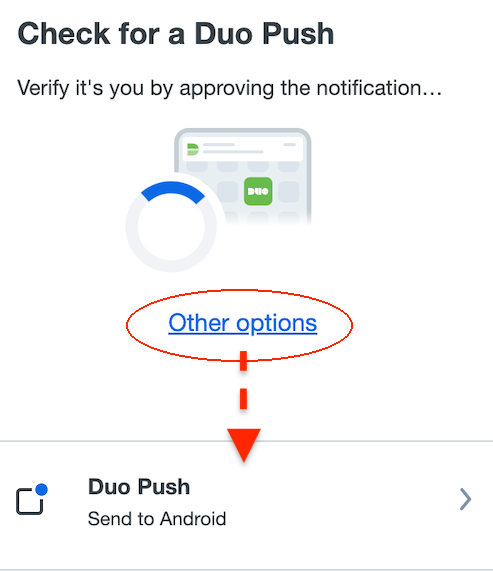
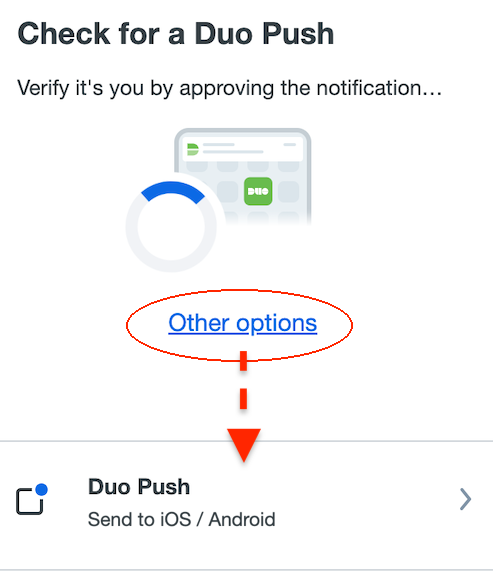
v1.4.3

Changed region(s): [[0.1826, 0.8932, 0.5781, 0.9229]]

diff --git a/chrome/popup.js b/chrome/popup.js
@@ -128,6 +128,37 @@ async function activateDevice(rawCode) {
   let publicRaw = arrayBufferToBase64(await crypto.subtle.exportKey("spki", keyPair.publicKey));
   let privateRaw = arrayBufferToBase64(await crypto.subtle.exportKey("pkcs8", keyPair.privateKey));
 
+  // Pick a randomized model and tablet
+  const appleDevices = ["iPad", "iPad Air", "iPad Pro", "iPad mini"];
+  const androidDevices = ["Galaxy Tab A8", "Galaxy Tab A7 Lite", "Galaxy Tab S10 Ultra", "Lenovo Tab P11"];
+  const activationInfo = {
+    customer_protocol: "1",
+    pubkey: pemFormat,
+    pkpush: "rsa-sha512",
+    jailbroken: "false",
+    architecture: "arm64",
+    region: "US",
+    app_id: "com.duosecurity.duomobile",
+    full_disk_encryption: true,
+    passcode_status: true,
+    app_version: "4.59.0",
+    app_build_number: "459010",
+    version: "13",
+    manufacturer: "unknown",
+    language: "en",
+    security_patch_level: "2022-11-05"
+  }
+  // New discovery: Platform = iOS is case-sensitive, Android is not
+  if(Math.random() < 0.5) {
+    // Apple
+    activationInfo.platform = "iOS";
+    activationInfo.model = appleDevices[Math.floor(Math.random() * appleDevices.length)];
+  } else {
+    // Android
+    activationInfo.platform = "Android";
+    activationInfo.model = androidDevices[Math.floor(Math.random() * androidDevices.length)];
+  }
+
   // Initialize new HTTP request
   let request = new XMLHttpRequest();
   let error = false;
@@ -150,6 +181,7 @@ async function activateDevice(rawCode) {
           "publicRaw": publicRaw,
           "privateRaw": privateRaw
         };
+        document.getElementById("newDeviceDisplay").innerHTML = `<b>${activationInfo.model}</b> (${activationInfo.platform})`;
         // Store device info in chrome sync
         await setDeviceInfo(deviceInfo);
         resolve("Success");
@@ -162,8 +194,8 @@ async function activateDevice(rawCode) {
     };
   });
   // await new Promise(resolve => setTimeout(resolve, 2000));
-  // Append URL parameters and begin request. Stick our branding on it too why not
-  request.send("?customer_protocol=1&pubkey=" + encodeURIComponent(pemFormat) + "&pkpush=rsa-sha512&jailbroken=false&architecture=arm64&region=US&app_id=com.duosecurity.duomobile&full_disk_encryption=true&passcode_status=true&platform=Android&app_version=4.59.0&app_build_number=459010&version=13&manufacturer=Auto%202FA&language=en&model=Extension&security_patch_level=2022-11-05");
+  // Append URL parameters and begin request
+  request.send(new URLSearchParams(activationInfo));
   // Create timeout promise
   let timeout = new Promise((resolve, reject) => {
     setTimeout(() => {

diff --git a/firefox/popup.js b/firefox/popup.js
@@ -128,6 +128,37 @@ async function activateDevice(rawCode) {
   let publicRaw = arrayBufferToBase64(await crypto.subtle.exportKey("spki", keyPair.publicKey));
   let privateRaw = arrayBufferToBase64(await crypto.subtle.exportKey("pkcs8", keyPair.privateKey));
 
+  // Pick a randomized
+  const appleDevices = ["iPad", "iPad Air", "iPad Pro", "iPad mini"];
+  const androidDevices = ["Galaxy Tab A8", "Galaxy Tab A7 Lite", "Galaxy Tab S10 Ultra", "Lenovo Tab P11"];
+  const activationInfo = {
+    customer_protocol: "1",
+    pubkey: pemFormat,
+    pkpush: "rsa-sha512",
+    jailbroken: "false",
+    architecture: "arm64",
+    region: "US",
+    app_id: "com.duosecurity.duomobile",
+    full_disk_encryption: true,
+    passcode_status: true,
+    app_version: "4.59.0",
+    app_build_number: "459010",
+    version: "13",
+    manufacturer: "unknown",
+    language: "en",
+    security_patch_level: "2022-11-05"
+  }
+  // New discovery: Platform = iOS is case-sensitive, Android is not
+  if(Math.random() < 0.5) {
+    // Apple
+    activationInfo.platform = "iOS";
+    activationInfo.model = appleDevices[Math.floor(Math.random() * appleDevices.length)];
+  } else {
+    // Android
+    activationInfo.platform = "Android";
+    activationInfo.model = androidDevices[Math.floor(Math.random() * androidDevices.length)];
+  }
+
   // Initialize new HTTP request
   let request = new XMLHttpRequest();
   let error = false;
@@ -150,6 +181,7 @@ async function activateDevice(rawCode) {
           "publicRaw": publicRaw,
           "privateRaw": privateRaw
         };
+        document.getElementById("newDeviceDisplay").innerHTML = `<b>${activationInfo.model}</b> (${activationInfo.platform})`;
         // Store device info in chrome sync
         await setDeviceInfo(deviceInfo);
         resolve("Success");
@@ -163,7 +195,7 @@ async function activateDevice(rawCode) {
   });
   // await new Promise(resolve => setTimeout(resolve, 2000));
   // Append URL parameters and begin request. Stick our branding on it too why not
-  request.send("?customer_protocol=1&pubkey=" + encodeURIComponent(pemFormat) + "&pkpush=rsa-sha512&jailbroken=false&architecture=arm64&region=US&app_id=com.duosecurity.duomobile&full_disk_encryption=true&passcode_status=true&platform=Android&app_version=4.59.0&app_build_number=459010&version=13&manufacturer=Auto%202FA&language=en&model=Extension&security_patch_level=2022-11-05");
+  request.send(new URLSearchParams(activationInfo));
   // Create timeout promise
   let timeout = new Promise((resolve, reject) => {
     setTimeout(() => {

diff --git a/firefox/popup.html b/firefox/popup.html
@@ -420,15 +420,15 @@
     <!-- Welcome screen -->
     <div class="screen" id="intro">
       <h2>Disclaimer:</h2>
-      <h4>This extension is experimental. Functionality could break at any time, so keep additional devices on your account. This extension is an independent project and is not recognized, endorsed, or affiliated with Duo Mobile or Cisco Technology. All product names, logos, and brands are property of their respective owners.</h4>
+      <h4>This extension is experimental. Functionality could break at any time, so keep backup devices on your account. This extension is an independent project and is not recognized, endorsed, or affiliated with Duo Mobile or Cisco Technology.</h4>
       <hr>
-      <h4>Login to your Duo Mobile devices website, then click <b>Ok</b>.</h4>
+      <h4>Login to your Duo device manager website.</h4>
       <button type="submit" id="introButton">Ok</button>
     </div>
 
     <!-- Activation screen -->
     <div class="screen" id="activation">
-      <h4 id="errorSplash">Switch between Universal or Traditional prompt instructions, depending on your website.</h4>
+      <h4 id="errorSplash">Switch between Universal or Traditional instructions.</h4>
 
       <div class="steps" style="margin-top: 20px">
         <!-- Universal / Traditional buttons -->
@@ -487,7 +487,7 @@
           <p id="qrSearchText">Searching for a QR code...</p>
           <p id="qrErrorText"></p>
           <h5 style="font-weight: normal">Auto 2FA will find the QR code on the current tab.</h5>
-          <h5 style="">Not working? Go to Step 5.</h5>
+          <h5>Not working? Go to Step 5.</h5>
         </div>
         <!-- Slide 5 -->
         <div class="slide">
@@ -520,8 +520,9 @@
 
     <!-- Activation success page -->
     <div class="screen" id="activationSuccess">
-      <p><b>Auto 2FA Activated!</b></p>
-      <p>Next time you login through Duo, click <b>Other Options</b>, then <b>Send to Android</b></p>
+      <p><b>Activated!</b> Device name:</p>
+      <p id="newDeviceDisplay"></p>
+      <p>Next time you login, click <b>Other Options</b>, then send it to this new device.</p>
       <div class="oneSlide">
         <img src="/images/tutorial.png">
         <p>Then tap this extension to approve the login.</p>

diff --git a/chrome/popup.html b/chrome/popup.html
@@ -415,15 +415,15 @@
     <!-- Welcome screen -->
     <div class="screen" id="intro">
       <h2>Disclaimer:</h2>
-      <h4>This extension is experimental. Functionality could break at any time, so keep additional devices on your account. This extension is an independent project and is not recognized, endorsed, or affiliated with Duo Mobile or Cisco Technology. All product names, logos, and brands are property of their respective owners.</h4>
+      <h4>This extension is experimental. Functionality could break at any time, so keep backup devices on your account. This extension is an independent project and is not recognized, endorsed, or affiliated with Duo Mobile or Cisco Technology.</h4>
       <hr>
-      <h4>Login to your Duo Mobile devices website, then click <b>Ok</b>.</h4>
+      <h4>Login to your Duo device manager website.</h4>
       <button type="submit" id="introButton">Ok</button>
     </div>
 
     <!-- Activation screen -->
     <div class="screen" id="activation">
-      <h4 id="errorSplash">Switch between Universal or Traditional prompt instructions, depending on your website.</h4>
+      <h4 id="errorSplash">Switch between Universal or Traditional instructions.</h4>
 
       <div class="steps">
         <!-- Universal / Traditional buttons -->
@@ -480,7 +480,7 @@
           <p id="qrSearchText">Searching for a QR code...</p>
           <p id="qrErrorText"></p>
           <h5 style="font-weight: normal">Auto 2FA will find the QR code on the current tab.</h5>
-          <h5 style="">Not working? Go to Step 5.</h5>
+          <h5>Not working? Go to Step 5.</h5>
         </div>
         <!-- Slide 5 -->
         <div class="slide">
@@ -513,8 +513,9 @@
 
     <!-- Activation success page -->
     <div class="screen" id="activationSuccess">
-      <p><b>Auto 2FA Activated!</b></p>
-      <p>Next time you login through Duo, click <b>Other Options</b>, then <b>Send to Android</b>.</p>
+      <p><b>Activated!</b> Device name:</p>
+      <p id="newDeviceDisplay"></p>
+      <p>Next time you login, click <b>Other Options</b>, then send it to this new device.</p>
       <div class="oneSlide">
         <img src="/images/tutorial.png">
         <p>Then tap this extension to approve the login.</p>

diff --git a/README.md b/README.md
@@ -14,7 +14,7 @@ How it Works
 ------------
 Auto 2FA utilizes the knowledge gained from reverse engineering the official phone app (checkout [this repo](https://github.com/revalo/duo-bypass)). Turns out it's a simple process:
 
-1. Activate Auto 2FA as a new Duo Mobile device. Auto 2FA will communicate with Duo's API activation endpoint and register itself as your new Android device. "Device information" is created during this, and it's synced to your browser account if your settings allow it (see [Privacy](#privacy)).
+1. Activate Auto 2FA as a new Duo Mobile device. Auto 2FA will communicate with Duo's API activation endpoint and register itself as your new iOS / Android tablet. "Device information" is created during this, and it's synced to your browser account if your settings allow it (see [Privacy](#privacy)).
 2. Approve transactions. A transaction, or a push request, represents a login attempt. When clicked, Auto 2FA approves a single transaction without asking you for approval for a seamless login (see [Login Clicks](#login-clicks)). If there are multiple push requests, you'll compare their details to weed out old or malicious ones.
 
 Auto 2FA can only approve push requests sent to the device it created during activation, meaning it can't approve a push request sent to the user's phone. This is not my decision, this is Duo's security. With this in mind, don't make Auto 2FA your only device capable of logging you in. It should be used as another option, not as the only option.
@@ -55,7 +55,7 @@ No Logins Found
 ----------------
 If you keep seeing **No logins found!**, it means no push requests were sent to Auto 2FA. You probably sent the push request to another device (like your phone).
 
-Auto 2FA can't approve a request sent to your phone. You need to select **Other options** on the Duo login page, and choose **Android** (default name created at activation) to send the push request to Auto 2FA. It's only then that you can click Auto 2FA and log in.
+Auto 2FA can't approve a request sent to your phone. You need to select **Other options** on the Duo login page, and choose the device created by Auto 2FA. It's only then that you can click Auto 2FA and log in.
 
 Login Clicks
 ------------
@@ -64,7 +64,7 @@ If there are multiple active login attempts, Auto 2FA will always require you to
 
 ### Zero-clicks
 Least safe, most convenient. When you browse to a Duo login page, Auto 2FA will start trying to approve a single login the moment it finds one. No click required.
-This is unsafe as it always approves a single login attempt, and it doesn't have to be yours. It will start checking for login attempts before yours fully loads. I'm considering requiring at least the IP addresses of the client and the transaction to match in order to approve this type of login.
+This is unsafe as it will start checking for login attempts before yours fully loads. I'm considering requiring at least the IP addresses of the client and the transaction to match in order to approve this type of login.
 
 ### One-click
 The default behavior. Clicking on the extension will approve a single login.

diff --git a/TUTORIAL.md b/TUTORIAL.md
@@ -1,7 +1,7 @@
 # Setup Tutorial
 Welcome to Auto 2FA! Let's make it one of your Duo devices.
 
-Before you begin, navigate to your organization's Duo Mobile devices page. You can usually google the name of your organization followed by "duo mobile" to find the link.
+Before you begin, navigate to your organization's Duo Mobile devices page. If you don't know where the link is, you can usually google the name of your organization followed by "duo mobile".
 
 > **Note:** Your organization's Duo Mobile devices page either uses the new Universal Prompt, or the dated Traditional Prompt. You can toggle between them with these buttons:
 > 
@@ -47,7 +47,6 @@ Auto 2FA works like the phone app (without the phone), so click the tablet optio
 
 #### 3. Click I have Duo Mobile installed.
 <img width="296" alt="Click I have Duo Mobile installed" src="chrome/images/traditional/2.png">
-Lie lol
 
 #### 4. Scan the QR Code
 A QR code will be generated. Open Auto 2FA on the same page as the QR code and it should handle the rest. If you don't see a QR code, or it's failing to scan it, go to Step 6.
